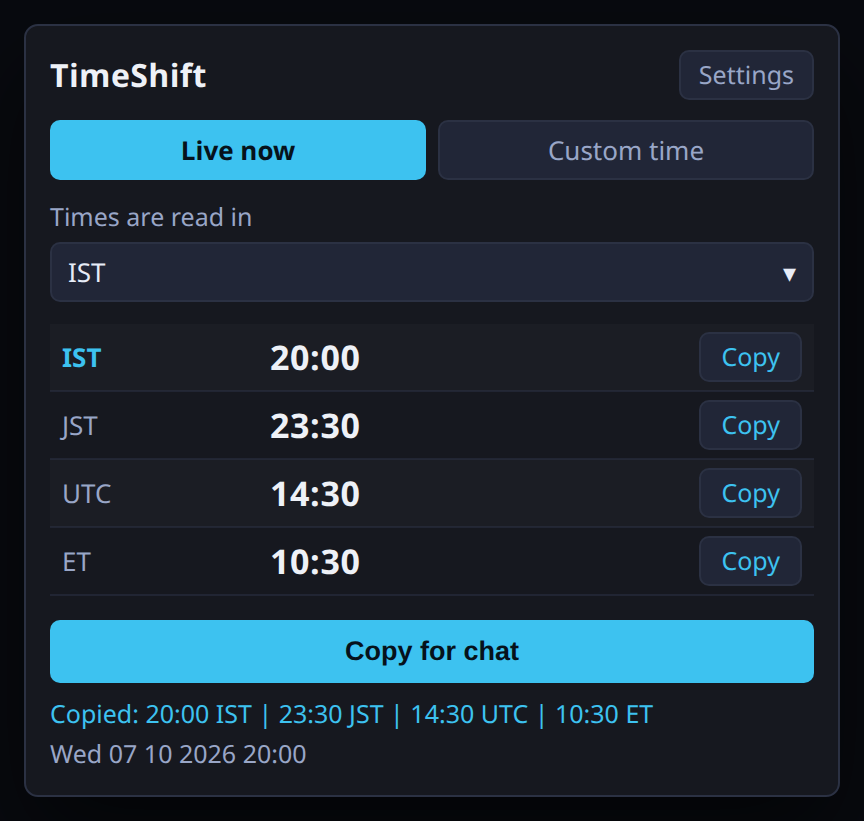
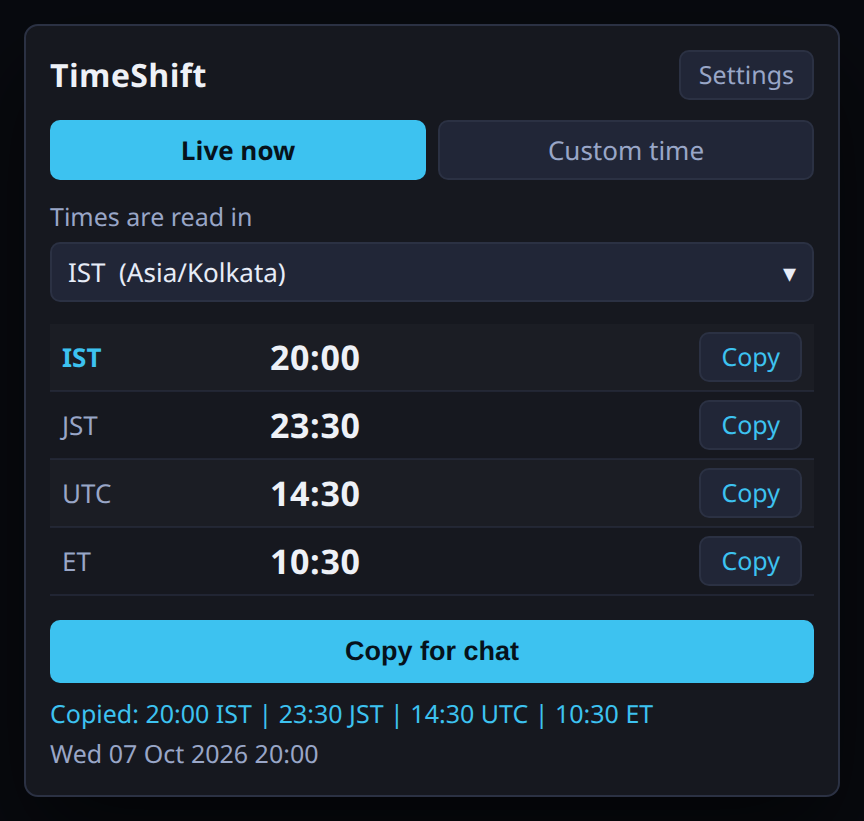
Refresh screenshots for the post-review build
Match TimeFmt echo dates (Wed 07 Oct 2026), base-zone combo labels,
settings Add/Copy preview controls, and the fixed-offset minutes field.

Changed region(s): [[0.125, 0.3045, 0.3438, 0.3654], [0.1562, 0.8831, 0.375, 0.944]]

diff --git a/screenshots/settings.html b/screenshots/settings.html
@@ -16,16 +16,19 @@
     <table>
       <tr><td class="zone" style="width:26px">✓</td><td class="zone" style="width:78px">IST</td><td class="zid">Asia/Kolkata</td><td class="zoff">+05:30</td><td class="zbtn"><span>^</span><span>v</span><span class="del">X</span></td></tr>
       <tr><td>✓</td><td>JST</td><td class="zid">Asia/Tokyo</td><td class="zoff">+09:00</td><td class="zbtn"><span>^</span><span>v</span><span class="del">X</span></td></tr>
-      <tr><td>✓</td><td>UTC</td><td class="zid">+00:00 fixed</td><td class="zoff">+00:00</td><td class="zbtn"><span>^</span><span>v</span><span class="del">X</span></td></tr>
+      <tr><td>✓</td><td>UTC</td><td class="zid">0</td><td class="zoff">+00:00</td><td class="zbtn"><span>^</span><span>v</span><span class="del">X</span></td></tr>
       <tr><td>✓</td><td>ET</td><td class="zid">America/New_York</td><td class="zoff">-04:00</td><td class="zbtn"><span>^</span><span>v</span><span class="del">X</span></td></tr>
     </table>
 
     <h2>Add a zone</h2>
-    <div class="select" style="margin-bottom:6px"><span>PT&nbsp; (America/Los_Angeles)</span><span>▾</span></div>
+    <div style="display:flex; gap:8px; align-items:center; margin-bottom:6px">
+      <div class="select" style="flex:1; margin:0"><span>PT&nbsp;&nbsp;(America/Los_Angeles)</span><span>▾</span></div>
+      <div class="ghost" style="color:var(--accent)">Add</div>
+    </div>
 
     <h2>Base zone</h2>
     <p class="hint">A time you type is read as being in this zone.</p>
-    <div class="select"><span>IST — Asia/Kolkata</span><span>▾</span></div>
+    <div class="select"><span>IST&nbsp;&nbsp;(Asia/Kolkata)</span><span>▾</span></div>
 
     <h2>Copied line</h2>
     <div class="check"><b>✓</b> 24-hour times</div>
@@ -35,9 +38,10 @@
     <div class="select" style="margin-top:6px"><span>Separator&nbsp; “ | ”&nbsp;&nbsp; Prefix&nbsp; “”&nbsp;&nbsp; Suffix&nbsp; “”</span></div>
 
     <h2>Preview</h2>
-    <div class="hint">Wed 07 10 2026 20:00 in IST</div>
+    <div class="hint">Wed 07 Oct 2026 20:00  in IST</div>
     <div class="preview">20:00 IST | 23:30 JST | 14:30 UTC | 10:30 ET</div>
-    <div class="foot">Reset to defaults&nbsp;&nbsp;·&nbsp;&nbsp;Saved automatically.</div>
+    <div class="ghost" style="color:var(--accent); display:inline-block; margin-top:6px">Copy preview</div>
+    <div class="foot">Reset to defaults&nbsp;&nbsp;·&nbsp;&nbsp;Saved automatically. Base: Asia/Kolkata</div>
   </div>
 </body>
 </html>

diff --git a/preview.html b/preview.html
@@ -215,8 +215,12 @@ function render() {
       <td style="width:62px"><span class="copy">Copy</span></td>
     </tr>`).join('');
 
+  // Match TimeFmt.Full / Echo: "Wed 07 Oct 2026 20:00" (InvariantCulture MMM).
+  const months = ['Jan','Feb','Mar','Apr','May','Jun','Jul','Aug','Sep','Oct','Nov','Dec'];
+  const echo = `${base.weekday} ${base.day} ${months[+base.month - 1]} ${base.year} ${base.hour}:${base.minute}`;
+
   document.getElementById('flashText').textContent = line.join(' | ');
-  document.getElementById('echo').textContent = `${base.weekday} ${base.day} ${base.month} ${base.year} ${base.hour}:${base.minute}`;
+  document.getElementById('echo').textContent = echo;
 
   const p = partsFor('America/New_York', now);
   const off = offsetMinutes('America/New_York', now);
@@ -224,8 +228,7 @@ function render() {
   const abs = Math.abs(off);
   document.getElementById('etOffset').textContent = `${sign}${String(Math.floor(abs / 60)).padStart(2, '0')}:${String(abs % 60).padStart(2, '0')}`;
 
-  const head = `${base.weekday} ${base.day} ${base.month} ${base.year} 20:00  in Local`;
-  document.getElementById('previewHead').textContent = head;
+  document.getElementById('previewHead').textContent = `${base.weekday} ${base.day} ${months[+base.month - 1]} ${base.year} 20:00  in Local`;
   document.getElementById('preview').textContent = line.join(' | ');
 }
 

diff --git a/screenshots/custom-time.html b/screenshots/custom-time.html
@@ -20,7 +20,7 @@
     <div class="field">Wed 21:00</div>
 
     <div class="label">Times are read in</div>
-    <div class="select"><span>IST</span><span>▾</span></div>
+    <div class="select"><span>IST&nbsp;&nbsp;(Asia/Kolkata)</span><span>▾</span></div>
 
     <table>
       <tr>
@@ -47,7 +47,7 @@
 
     <button class="primary">Copy for chat</button>
     <div class="flash">Copied: 21:00 IST | 00:30 JST Thu +1d | 15:30 UTC | 11:30 ET</div>
-    <div class="echo">Wed 07 10 2026 21:00</div>
+    <div class="echo">Wed 07 Oct 2026 21:00</div>
   </div>
 </body>
 </html>

diff --git a/screenshots/live-now.html b/screenshots/live-now.html
@@ -18,7 +18,7 @@
     </div>
 
     <div class="label">Times are read in</div>
-    <div class="select"><span>IST</span><span>▾</span></div>
+    <div class="select"><span>IST&nbsp;&nbsp;(Asia/Kolkata)</span><span>▾</span></div>
 
     <table>
       <tr>
@@ -45,7 +45,7 @@
 
     <button class="primary">Copy for chat</button>
     <div class="flash">Copied: 20:00 IST | 23:30 JST | 14:30 UTC | 10:30 ET</div>
-    <div class="echo">Wed 07 10 2026 20:00</div>
+    <div class="echo">Wed 07 Oct 2026 20:00</div>
   </div>
 </body>
 </html>
